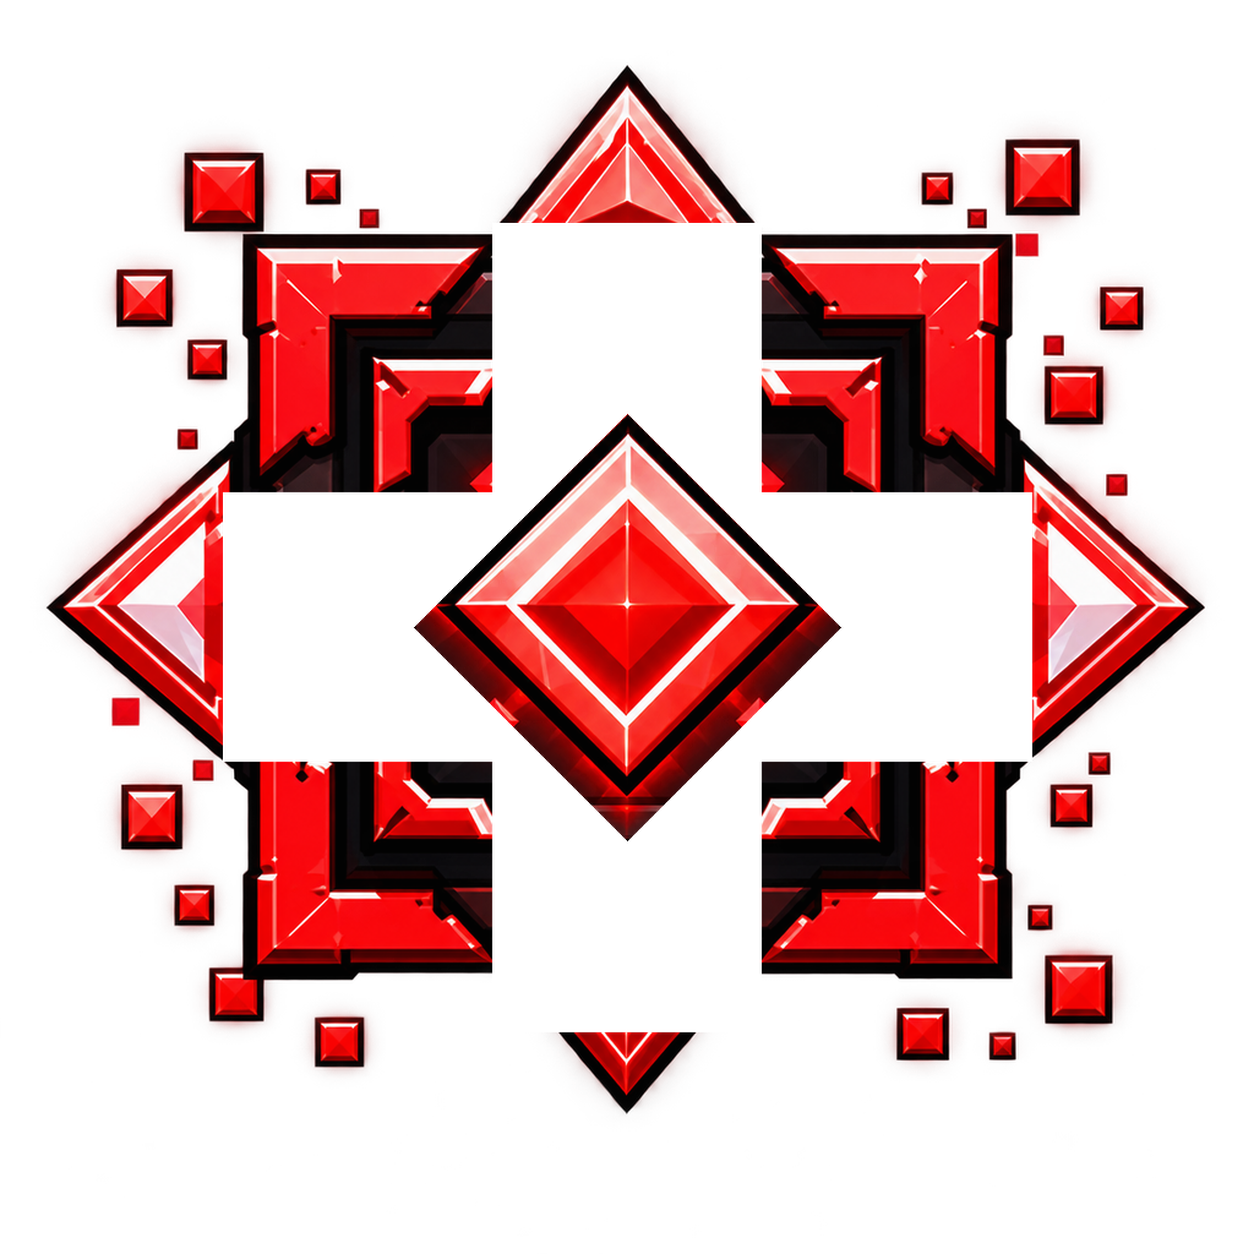
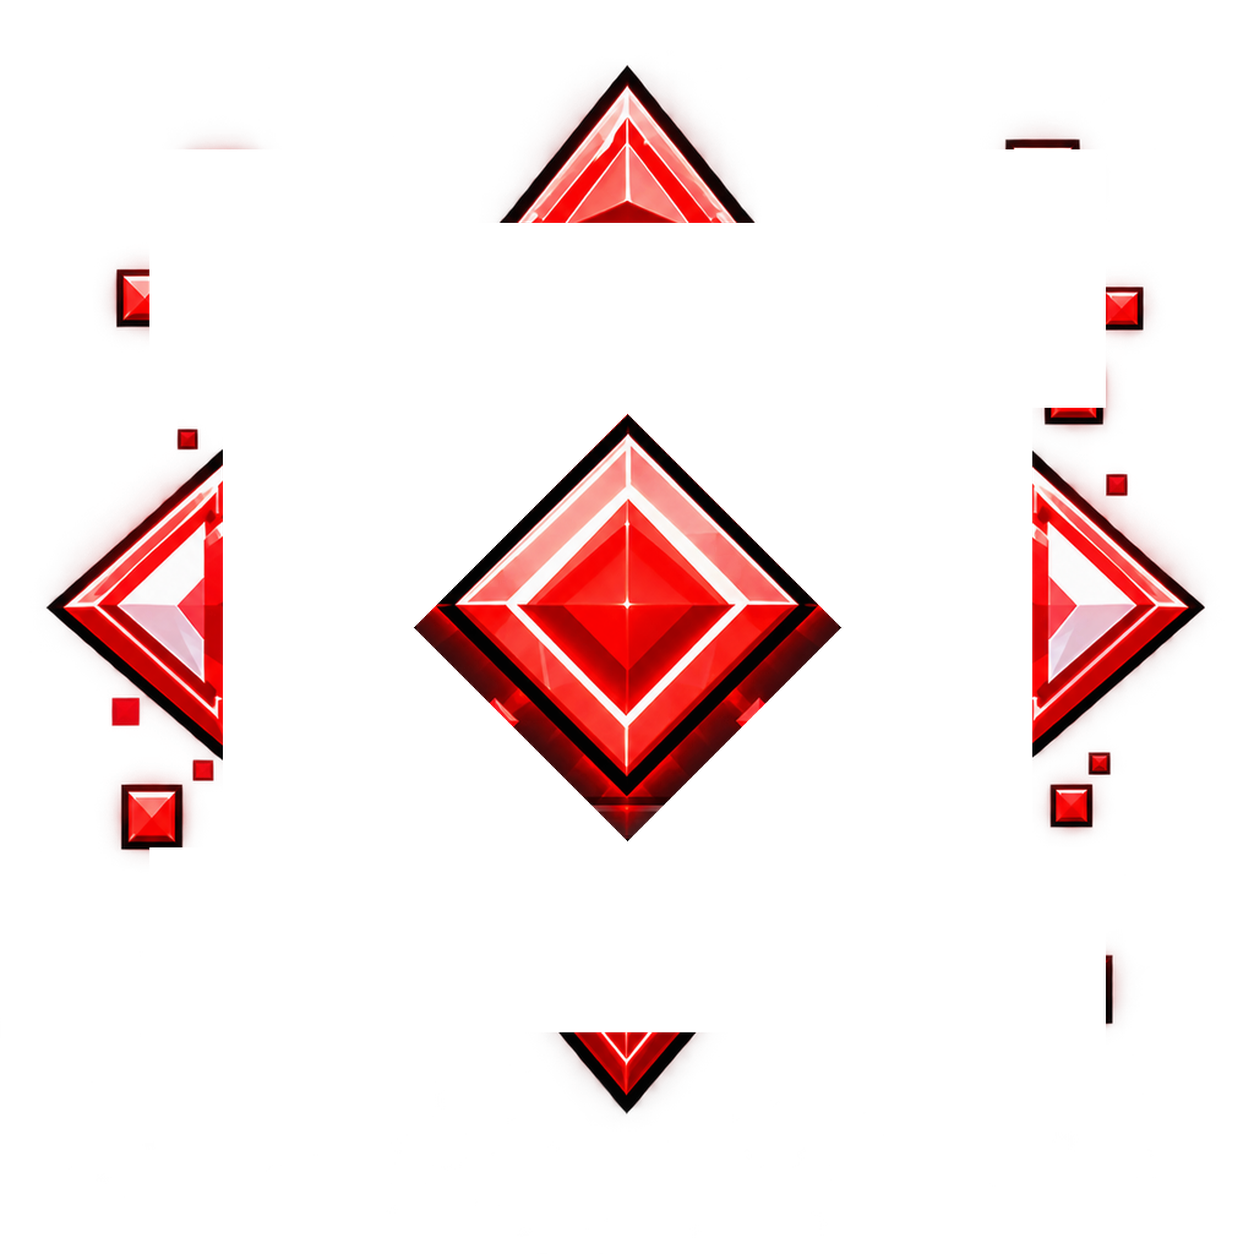
v0.6.0-beta.39: RED badge keeps only its spikes and core
- tools/cut-rank-badges.py clears the RED body layer (previously its
  middle bands were cut); the RED trophy is rebuilt from the spikes and
  core. The layer keeps its canvas, name and role, so the promotion and
  placement assemblies animate as before.
- Image pack tag visuals-v3 (a new immutable tag, in case visuals-v2 is
  already released). It still has to be released to corum-ranked-assets
  and selected in the Ranked config.
- Version bumped to v0.6.0-beta.39.

Claude-Session: https://claude.ai/code/session_014RtQRcNCiCBqZ3Rpsz2T1Z

diff --git a/ranked/apps/server/src/session/client-version.ts b/ranked/apps/server/src/session/client-version.ts
@@ -1,5 +1,5 @@
 export const PREVIOUS_RANKED_CLIENT_VERSION = "v0.5.0-beta.107";
-export const REQUIRED_RANKED_CLIENT_VERSION = "v0.6.0-beta.38";
+export const REQUIRED_RANKED_CLIENT_VERSION = "v0.6.0-beta.39";
 
 export interface RankedClientVersionMod {
   readonly id: string;

diff --git a/corum-ranked-mod/tools/cut-rank-badges.py b/corum-ranked-mod/tools/cut-rank-badges.py
@@ -2,7 +2,8 @@
 """Cut the lower-tier rank badges and rebuild their finished trophies.
 
 UNRANKED keeps only its core, drawn twice as large so it still reads at
-list size. RED, AQUA and BRONZE lose the middle of each
+list size. RED keeps only its spikes and core (its body layer is cleared).
+AQUA and BRONZE lose the middle of each
 side of their body layer (a horizontal and a vertical band through the
 centre); the narrower the band, the higher the tier. Ornament layers and the
 core stay whole, every layer keeps its 1024 px canvas, file name and role,
@@ -31,7 +32,9 @@ LAYERS = {
 }
 # Half width in canvas pixels of the band removed through the middle of each
 # side of the body layer.
-BODY_CUT = {'bronze': 45, 'aqua': 80, 'red': 110}
+BODY_CUT = {'bronze': 45, 'aqua': 80}
+# Tiers whose body layer is cleared entirely.
+BODY_CLEARED = ('red',)
 # The UNRANKED core is enlarged around the canvas centre while it is still
 # at its original size (idempotent: an enlarged core is left alone).
 CORE_SCALE, CORE_ORIGINAL_MAX = 2.0, 300
@@ -78,6 +81,10 @@ def cut():
         pixels = load(layer_path('unranked', role))
         pixels[...] = 0
         save(layer_path('unranked', role), pixels)
+    for tier in BODY_CLEARED:
+        pixels = load(layer_path(tier, 'body'))
+        pixels[...] = 0
+        save(layer_path(tier, 'body'), pixels)
     for tier, half_width in BODY_CUT.items():
         pixels = load(layer_path(tier, 'body'))
         pixels[middle_bands(half_width)] = 0
